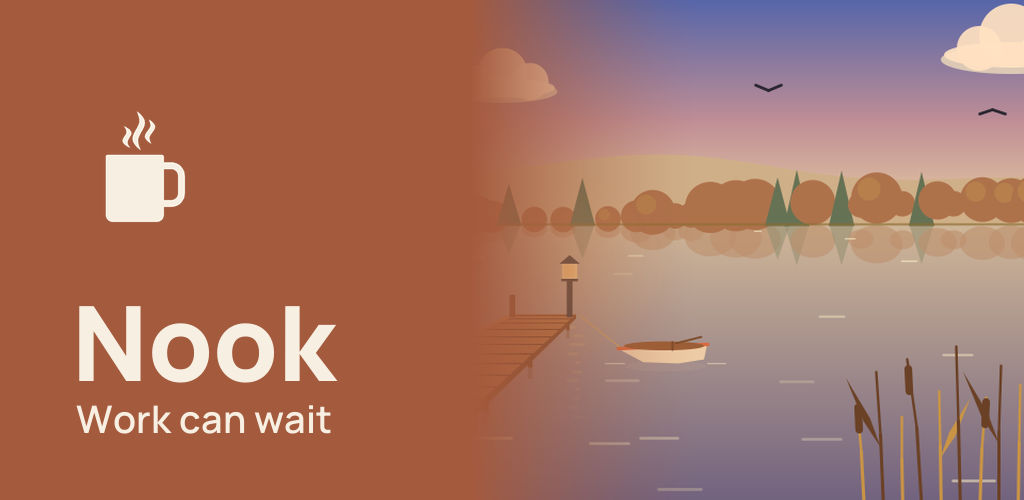
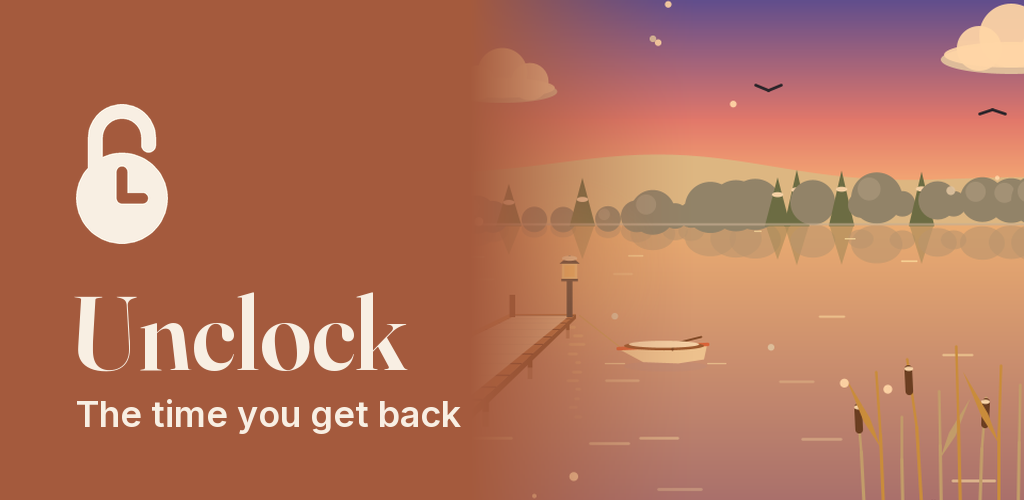
Store feature graphic for Unclock: padlock, site fonts, new free-time line

diff --git a/tools/store/feature_graphic.py b/tools/store/feature_graphic.py
@@ -3,10 +3,11 @@
 
 Background: a frame of the off-work scene, rendered by the unit tests
 (`./gradlew testDebugUnitTest --tests '*ZenSceneTest*'` writes app/build/zen-previews/).
-On the left, the brand terracotta fading into the scene, the mug from the launcher icon, the name and a line.
+On the left, the brand terracotta fading into the scene, the padlock from the launcher icon, the name and a line.
+Type as on the site (Fraunces 600 for the name, Inter for the line), read from the site repo's self-hosted fonts.
 
-Usage: python3 tools/store/feature_graphic.py path/to/Manrope[wght].ttf
-(Manrope: https://github.com/google/fonts/tree/main/ofl/manrope). Writes docs/store/feature-graphic-{it,en}.png.
+Usage: python3 tools/store/feature_graphic.py [path/to/nook-site]   (default: ../nook-site next to this repo)
+Writes docs/store/feature-graphic-{it,en}.png.
 """
 import sys
 from pathlib import Path
@@ -18,34 +19,35 @@ sys.path.insert(0, str(ROOT / "tools/icon"))
 import launcher_icon as icon  # noqa: E402
 
 W, H = 1024, 500
-SCENE = ROOT / "app/build/zen-previews/nature_autumn_1700_golden_hour.png"
+SCENE = ROOT / "app/build/zen-previews/nature_winter_1700_golden_hour.png"
 TERRACOTTA = (164, 90, 61)
 CREAM = (248, 239, 227)
-TEXT = {"it": "Il lavoro può aspettare", "en": "Work can wait"}
+TEXT = {"it": "Il tempo che ti torna", "en": "The time you get back"}
 
 
-def font(path, size, weight):
-    f = ImageFont.truetype(path, size)
-    f.set_variation_by_name(weight)
+def font(path, size, **axes):
+    f = ImageFont.truetype(str(path), size)
+    if axes:
+        names = [a["name"].decode() for a in f.get_variation_axes()]
+        f.set_variation_by_axes([axes.get(n, a["default"]) for n, a in zip(names, f.get_variation_axes())])
     return f
 
 
-def mug(size):
-    """The launcher glyph in cream on transparent, [size] px, centered like the icon."""
+def padlock(height):
+    """The launcher glyph in cream on transparent, the glyph [height] px tall, centered like the icon."""
     ss = 4
-    big = size * ss
-    img = Image.new("RGBA", (big, big), (0, 0, 0, 0))
-    d = ImageDraw.Draw(img)
     mx, my, bx, by = icon.glyph_center()
-    cx, cy = mx, (my + by) / 2
-    scale = big / 60  # the glyph spans ~42 units: leave a margin
-    for shape in icon.SHAPES.values():
-        pts = [((x - cx) * scale + big / 2, (y - cy) * scale + big / 2) for x, y in icon.flatten(shape, 1)]
-        d.polygon(pts, fill=CREAM + (255,))
-    return img.resize((size, size), Image.LANCZOS)
+    icon.DX, icon.DY = 54 - mx, 54 - (my + by) / 2
+    big = round(height * ss * 108 / 58)  # the glyph spans 58 of the 108 viewport units
+    m = icon.mask(big, icon.DX, icon.DY)
+    img = Image.new("RGBA", (big, big), CREAM + (0,))
+    img.putalpha(m)
+    img = img.crop(m.getbbox())
+    return img.resize((round(img.width / ss), round(img.height / ss)), Image.LANCZOS)
 
 
-def main(font_path):
+def main(site):
+    fonts = Path(site) / "public/assets/fonts"
     scene = Image.open(SCENE).convert("RGB")
     scene = scene.resize((W, int(scene.height * W / scene.width)), Image.LANCZOS)
     top = (scene.height - H) // 2
@@ -60,17 +62,17 @@ def main(font_path):
         od.line([(x, 0), (x, H)], fill=TERRACOTTA + (int(255 * a ** 1.4),))
     base = Image.alpha_composite(base.convert("RGBA"), overlay)
 
-    m = mug(150)
+    m = padlock(140)
     for lang, line in TEXT.items():
         img = base.copy()
-        img.alpha_composite(m, (64, 100))
+        img.alpha_composite(m, (76, 104))
         d = ImageDraw.Draw(img)
-        d.text((72, 270), "Nook", font=font(font_path, 104, "ExtraBold"), fill=CREAM)
-        d.text((76, 392), line, font=font(font_path, 38, "SemiBold"), fill=CREAM)
+        d.text((70, 268), "Unclock", font=font(fonts / "fraunces-normal.woff2", 104, Weight=600, **{"Optical Size": 144}), fill=CREAM)
+        d.text((76, 392), line, font=font(fonts / "inter-normal.woff2", 36, Weight=600), fill=CREAM)
         out = ROOT / f"docs/store/feature-graphic-{lang}.png"
         img.convert("RGB").save(out, optimize=True)
         print(out)
 
 
 if __name__ == "__main__":
-    main(sys.argv[1])
+    main(sys.argv[1] if len(sys.argv) > 1 else ROOT.parent / "nook-site")

diff --git a/docs/store/LISTING.md b/docs/store/LISTING.md
@@ -131,7 +131,7 @@ Tutti i file sono già nelle dimensioni richieste da Play.
 | Elemento | File | Specifiche Play |
 |---|---|---|
 | Icona | `icon-512.png` | 512×512, PNG a 32 bit, meno di 1 MB (è 10 KB) |
-| Feature graphic | `feature-graphic-it.png`, `feature-graphic-en.png` | 1024×500, PNG a 24 bit senza trasparenza. Obbligatoria |
+| Feature graphic | `feature-graphic-it.png`, `feature-graphic-en.png` | 1024×500, PNG a 24 bit senza trasparenza. Obbligatoria. Rifatta il 21/10/2026: lucchetto, "Unclock" in Fraunces, "Il tempo che ti torna" / "The time you get back" in Inter (i font del sito), pontile al tramonto d'inverno |
 | Screenshot telefono | `screenshots/it/*.png`, `screenshots/en/*.png` | 1080×1920 (9:16), da 2 a 8. Caricali in ordine di nome. Didascalia in alto e telefono con cornice che esce dal bordo basso |
 
 Gli screenshot, nell'ordine (elenco del 05/10/2026: `capture_screenshots.sh` ora scrive i file di Nook 2, ma `compose_screenshots.py` e questa tabella vanno ancora aggiornati):
@@ -151,7 +151,7 @@ Come rifarli (dopo un cambio di interfaccia o delle scene):
 tools/store/capture_screenshots.sh /tmp/nook-raw          # emulatore acceso, testo e tema di default; LANGS=it-IT per una lingua sola. Scrive 1_break, 2_shade, 3_apps, 4_report, 5_dark, 6_breaks, 7_stats (dati demo: tools/store/demo_prefs.py)
 python3 tools/store/compose_screenshots.py /tmp/nook-raw path/to/Manrope.ttf
 ./gradlew testDebugUnitTest --tests '*ZenSceneTest*'     # scene per la feature graphic
-python3 tools/store/feature_graphic.py path/to/Manrope.ttf
+python3 tools/store/feature_graphic.py                    # legge i font da ../nook-site/public/assets/fonts
 python3 tools/icon/launcher_icon.py                     # icona 512
 ```
 
@@ -215,6 +215,6 @@ Unclock only reads the package name of each notification to decide whether to re
 | Voce | Stato |
 |---|---|
 | Testi IT/EN | Pronti |
-| Icona, feature graphic, 5 screenshot IT + 5 EN | Pronti ma vecchi (05/10/2026: Home con orari e pulsante in basso, prima delle tre schede): da rifare prima della pubblicazione |
+| Icona e feature graphic pronte (21/10/2026). 5 screenshot IT + 5 EN | Vecchi (05/10/2026: Home con orari e pulsante in basso, prima delle tre schede): da rifare prima della pubblicazione |
 | Risposte ai moduli | Pronte, da ricontrollare in Play Console |
 | Verifica marchio "Unclock" | Da fare (Pasquale) |
